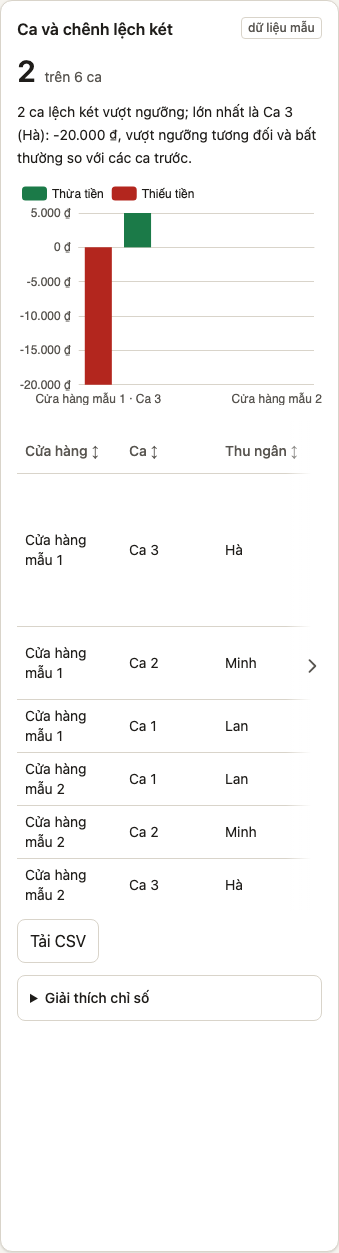
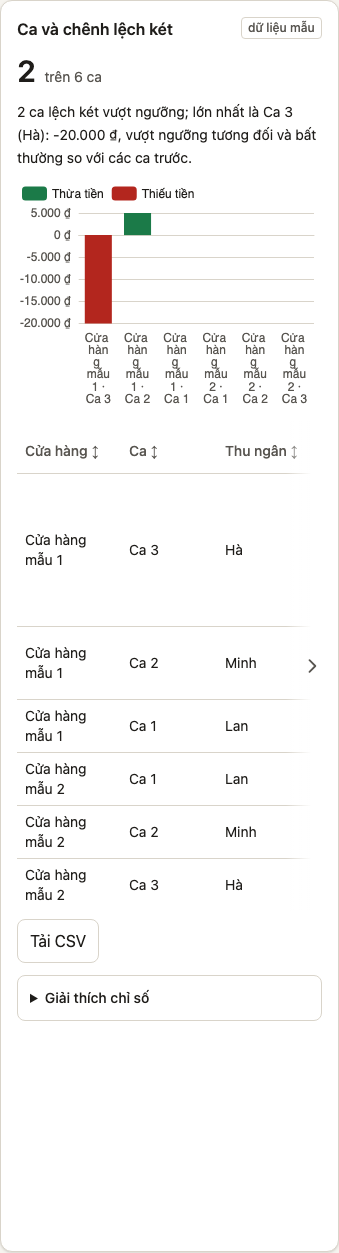
Show every store's name under its bar on a phone
ECharts hid the second store name of the per-store charts once two long
names no longer fitted side by side, at about 305 px of chart width, so a
phone showed one bar unlabelled. A chart with two to six categories now
shows every category label and wraps it to its category's band: the
chart measures the band after each render, resize and print switch
(convertToPixel between the first two categories) and sets the label
width to it, never below 32 px. Charts with more categories, such as hours
and days, keep letting crowded labels hide each other.

The second half of the issue, printed charts keeping their screen size, no
longer holds: charts redraw at the 660 px print width on beforeprint and
on the print media query, which every end-to-end print check asserts.

Tests: an end-to-end check that Hôm nay's store chart on a 360 px phone
names both stores (it failed before the change), and unit tests for when
labels wrap and how wide they are. The user-guide screenshots with a
store chart are retaken; web-app.md describes the rule.

Closes #41

diff --git a/apps/web/src/components/report-card/echarts-view.tsx b/apps/web/src/components/report-card/echarts-view.tsx
@@ -21,6 +21,9 @@ export const PRINT_CHART_WIDTH_PX = 660;
 const LEGEND_HEIGHT_PX = 32;
 const PLAIN_TOP_PX = 12;
 const TIDY_SIGNIFICANT_DIGITS = 2;
+export const WRAPPED_CATEGORY_LIMIT = 6;
+const LABEL_GAP_PX = 8;
+const MIN_LABEL_WIDTH_PX = 32;
 
 use([
 	BarChart,
@@ -181,6 +184,40 @@ function axisKind(spec: ChartSpec, axis: ChartAxis) {
 		: spec.valueKind;
 }
 
+export function wrapsCategoryLabels(spec: ChartSpec): boolean {
+	return (
+		spec.categories.length >= 2 &&
+		spec.categories.length <= WRAPPED_CATEGORY_LIMIT
+	);
+}
+
+function categoryAxisLabel(spec: ChartSpec, palette: ChartPalette) {
+	return wrapsCategoryLabels(spec)
+		? {
+				color: palette.inkMuted,
+				interval: 0,
+				hideOverlap: false,
+				overflow: "break" as const,
+			}
+		: { color: palette.inkMuted, hideOverlap: true };
+}
+
+export function categoryLabelWidth(bandWidth: number): number {
+	return Math.max(MIN_LABEL_WIDTH_PX, Math.floor(bandWidth) - LABEL_GAP_PX);
+}
+
+function fitCategoryLabels(instance: EChartsType, spec: ChartSpec): void {
+	if (!wrapsCategoryLabels(spec)) return;
+	const first = instance.convertToPixel({ xAxisIndex: 0 }, 0);
+	const second = instance.convertToPixel({ xAxisIndex: 0 }, 1);
+	if (typeof first !== "number" || typeof second !== "number") return;
+	instance.setOption({
+		xAxis: {
+			axisLabel: { width: categoryLabelWidth(Math.abs(second - first)) },
+		},
+	});
+}
+
 export function optionOf(
 	spec: ChartSpec,
 	palette: ChartPalette,
@@ -224,7 +261,7 @@ export function optionOf(
 		xAxis: {
 			type: "category",
 			data: [...spec.categories],
-			axisLabel: { color: palette.inkMuted, hideOverlap: true },
+			axisLabel: categoryAxisLabel(spec, palette),
 			axisLine: { lineStyle: { color: palette.line } },
 		},
 		yAxis: twoAxes
@@ -275,6 +312,8 @@ export default function EChartsView(props: EChartsViewProps) {
 	const printing = usePrinting();
 	const printingNow = useRef(printing);
 	printingNow.current = printing;
+	const specNow = useRef(props.spec);
+	specNow.current = props.spec;
 
 	useEffect(() => {
 		const element = container.current;
@@ -284,9 +323,10 @@ export default function EChartsView(props: EChartsViewProps) {
 			...initialChartSizeFor(printingNow.current),
 		});
 		chart.current = instance;
-		const observer = new ResizeObserver(() =>
-			instance.resize(chartSizeFor(printingNow.current)),
-		);
+		const observer = new ResizeObserver(() => {
+			instance.resize(chartSizeFor(printingNow.current));
+			fitCategoryLabels(instance, specNow.current);
+		});
 		observer.observe(element);
 		return () => {
 			observer.disconnect();
@@ -296,11 +336,17 @@ export default function EChartsView(props: EChartsViewProps) {
 	}, []);
 
 	useLayoutEffect(() => {
-		chart.current?.resize(chartSizeFor(printing));
+		const instance = chart.current;
+		if (instance === null) return;
+		instance.resize(chartSizeFor(printing));
+		fitCategoryLabels(instance, specNow.current);
 	}, [printing]);
 
 	useEffect(() => {
-		chart.current?.setOption(optionOf(props.spec, palette, props), true);
+		const instance = chart.current;
+		if (instance === null) return;
+		instance.setOption(optionOf(props.spec, palette, props), true);
+		fitCategoryLabels(instance, props.spec);
 	}, [props, palette]);
 
 	return (

diff --git a/apps/web/src/components/report-card/report-card-extensions.test.tsx b/apps/web/src/components/report-card/report-card-extensions.test.tsx
@@ -7,6 +7,7 @@ import { renderWithLanguage, vndFormatters } from "../../test/render";
 import { printPalette } from "./chart-theme";
 import { csvOfRows, displayCell, HEAT_LEVELS, heatLevels } from "./data-table";
 import {
+	categoryLabelWidth,
 	chartSizeFor,
 	dataExtent,
 	initialChartSizeFor,
@@ -15,6 +16,8 @@ import {
 	optionOf,
 	PRINT_CHART_WIDTH_PX,
 	tidyCeiling,
+	WRAPPED_CATEGORY_LIMIT,
+	wrapsCategoryLabels,
 } from "./echarts-view";
 import { axisFormats } from "./lazy-chart";
 import { ReportCard, type ReportCardProps } from "./report-card";
@@ -318,5 +321,56 @@ describe("chart option mapping", () => {
 	it("gives a new chart a width only while printing, so its svg never reads width auto", () => {
 		expect(initialChartSizeFor(true)).toEqual({ width: PRINT_CHART_WIDTH_PX });
 		expect(initialChartSizeFor(false)).toEqual({});
+	});
+});
+
+describe("category labels", () => {
+	function specWith(count: number): ChartSpec {
+		return {
+			label: "Doanh thu theo cửa hàng",
+			categories: Array.from(
+				{ length: count },
+				(_, index) => `Cửa hàng ${index + 1}`,
+			),
+			series: [
+				{
+					name: "Kỳ này",
+					kind: "bar",
+					tone: "primary",
+					values: Array.from({ length: count }, () => 1),
+				},
+			],
+			valueKind: "money",
+		};
+	}
+
+	it("show and wrap every label of a chart with few categories, such as one bar per store", () => {
+		const spec = specWith(2);
+		const option = optionOf(spec, printPalette, {
+			spec,
+			formats: axisFormats(spec, formatters),
+		});
+		expect(wrapsCategoryLabels(spec)).toBe(true);
+		expect(option.xAxis.axisLabel).toMatchObject({
+			interval: 0,
+			hideOverlap: false,
+			overflow: "break",
+		});
+	});
+
+	it("let crowded labels hide each other on charts with many categories", () => {
+		const spec = specWith(WRAPPED_CATEGORY_LIMIT + 1);
+		const option = optionOf(spec, printPalette, {
+			spec,
+			formats: axisFormats(spec, formatters),
+		});
+		expect(wrapsCategoryLabels(spec)).toBe(false);
+		expect(option.xAxis.axisLabel).toMatchObject({ hideOverlap: true });
+		expect(option.xAxis.axisLabel).not.toHaveProperty("interval");
+	});
+
+	it("size a wrapped label to its category's band, never below a readable minimum", () => {
+		expect(categoryLabelWidth(140.6)).toBe(132);
+		expect(categoryLabelWidth(20)).toBe(32);
 	});
 });

diff --git a/apps/web/e2e/demo/demo.spec.ts b/apps/web/e2e/demo/demo.spec.ts
@@ -162,6 +162,23 @@ test("the design catalogue passes axe and fits a 360 px phone, its popover open 
 	await expect(page.getByTestId("catalogue-popover")).toBeFocused();
 });
 
+test("a store chart on a 360 px phone names every store under its bar", async ({
+	page,
+}) => {
+	await page.setViewportSize({ width: PHONE_WIDTH, height: 800 });
+	await page.goto("/");
+	const chart = page
+		.getByTestId("card-today-net_revenue")
+		.getByTestId("echarts");
+	await chart.scrollIntoViewIfNeeded();
+	await expect(chart.locator("svg")).toBeVisible();
+	const labels = (await chart.locator("svg text").allTextContents())
+		.join(" ")
+		.replace(/\s+/g, " ");
+	expect(labels).toContain("mẫu 1");
+	expect(labels).toContain("mẫu 2");
+});
+
 test("Hôm nay passes axe and fits a 360 px phone", async ({ page }) => {
 	await page.goto("/");
 	await expect(page.getByTestId("card-yesterday-net_revenue")).toBeVisible();

diff --git a/docs/development.md b/docs/development.md
@@ -158,7 +158,7 @@ Run everything from the repository root.
 | Parity on Postgres | `DATABASE_URL=<local database URL> pnpm --filter @fnb/demo-analytics test:parity:postgres` | refuses a database that holds a tenant whose slug does not start with `demo-` or `parity-`; CI runs it on a fresh stack |
 | Playwright, once | `pnpm --filter @fnb/web e2e:install` | installs the Chromium build Playwright needs |
 | Playwright, one spec | `E2E_PORT_OFFSET=10 pnpm --filter @fnb/web exec playwright test --project=demo e2e/demo/report-day.spec.ts` | `--project` starts only that project's server |
-| Playwright, everything | `pnpm --filter @fnb/web test:e2e` | 73 tests in 10 files (listed on 2026-11-14), one worker; long, so prefer one spec on a shared machine |
+| Playwright, everything | `pnpm --filter @fnb/web test:e2e` | 74 tests in 10 files (listed on 2026-11-14), one worker; long, so prefer one spec on a shared machine |
 | User-guide screenshots | `pnpm --filter @fnb/web docs:screenshots` | takes every screenshot of [user-guide.md](user-guide.md) from the demo at a fixed clock into `docs/user-guide/`, and the sign-in screens from a build pointed at an unreachable backend, so no real data can appear; retake them whenever a screen changes |
 | Build every package | `pnpm build` | `tsc -p tsconfig.build.json` into each `dist/` (gitignored), plus the web build; packages are consumed as TypeScript source, so nothing needs building to run |
 | Web build | `pnpm --filter @fnb/web build` | `vite build`, then `scripts/check-bundle.mjs` and `scripts/check-size.mjs` |

diff --git a/docs/web-app.md b/docs/web-app.md
@@ -40,7 +40,7 @@ Every report is built from one component with these parts, in this order:
 1. **Headline** — one metric from the registry, formatted compactly, with the exact value on hover.
 2. **Comparison chips** — vs previous period and, when history exists, vs same period last year or the same-weekday baseline; colour follows the metric's `direction` from the registry (higher-is-better green when up).
 3. **Sentence** — one plain-language explanation generated from a template in the i18n file with driver attribution (which weekday, category or item moved the number most), rendered from the data, never from a model.
-4. **Chart** — ECharts, lazy-loaded, with the accessible table underneath as the fallback.
+4. **Chart** — ECharts, lazy-loaded, with the accessible table underneath as the fallback. A chart with two to six categories, such as one bar per store, shows every category label and wraps it to its category's width, measured after each render and resize, so no store name disappears on a phone; a chart with more categories (hours, days) lets crowded labels hide each other. While printing, charts redraw at the 660 px print width.
 5. **Table** — sortable, with a CSV download (UTF-8 with BOM) of exactly the rows shown.
 6. **Giải thích chỉ số** — collapsed definitions from the registry (formula, grain, convention, what is missing when provisional).
 

diff --git a/docs/test-plan.md b/docs/test-plan.md
@@ -682,10 +682,10 @@ From the run of 2026-11-14 at about 10:20, in every package. Skipped files and t
 | `@fnb/sync` | 15 + 1 | 98 | 2 |
 | `@fnb/demo-analytics` | 17 | 109 | 0 |
 | `@fnb/runner` | 5 | 26 | 0 |
-| `@fnb/web` | 23 | 279 | 0 |
+| `@fnb/web` | 23 | 282 | 0 |
 | `@fnb/notify` | 16 + 3 | 163 | 11 |
 | `@fnb/jobs` | 8 + 2 | 62 | 8 |
-| **Total** | **138 + 10 = 148** | **1,456** | **32** |
+| **Total** | **138 + 10 = 148** | **1,459** | **32** |
 
 `packages/runner/test/integration` exists but holds no test.
 
@@ -725,14 +725,14 @@ Listed with `playwright test --list` on 2026-11-12: 63 tests in 9 files.
 | `live` | `e2e/live/auth.spec.ts` | 6 |
 | `live` | `e2e/live/reports.spec.ts` | 4 |
 | `live` | `e2e/live/today.spec.ts` | 5 |
-| `demo` | `e2e/demo/demo.spec.ts` | 14 |
+| `demo` | `e2e/demo/demo.spec.ts` | 15 |
 | `demo` | `e2e/demo/report-day.spec.ts` | 12 |
 | `demo` | `e2e/demo/report-week.spec.ts` | 8 |
 | `demo` | `e2e/demo/report-month.spec.ts` | 13 |
 | `demo` | `e2e/demo/report-year.spec.ts` | 8 |
 | `pages` | `e2e/pages/install.spec.ts` | 2 |
 | `pages` | `e2e/pages/report-year-performance.spec.ts` | 1 |
-| | **Total** | **73** (live 15, demo 55, pages 3) |
+| | **Total** | **74** (live 15, demo 56, pages 3) |
 
 At the phase 9 verification the suite had 63 tests and all passed; phase 6 had 20.
 
